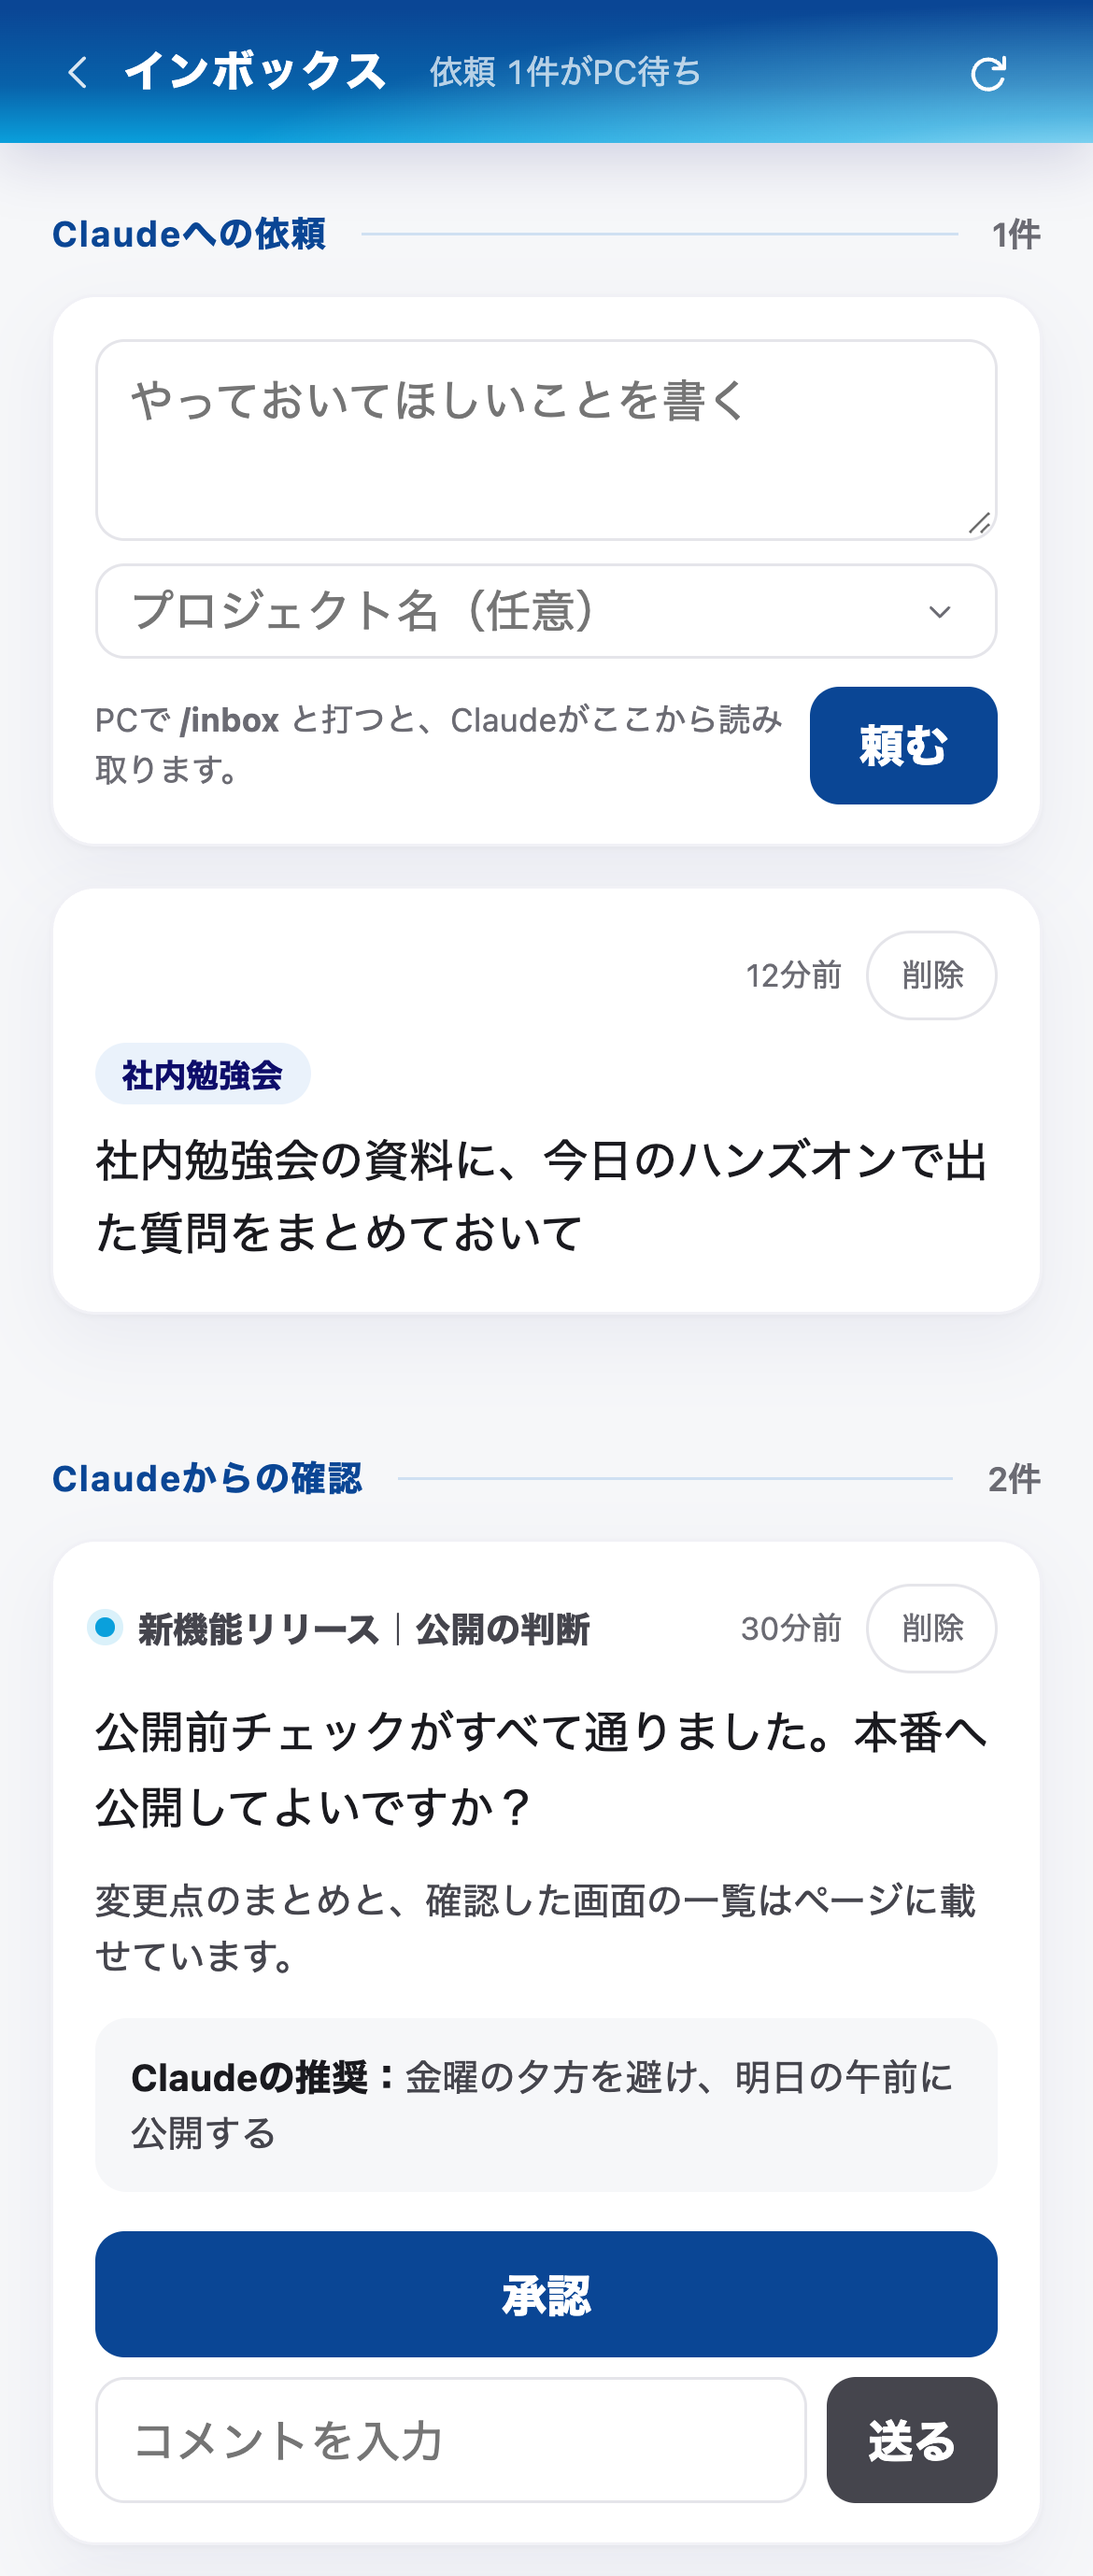
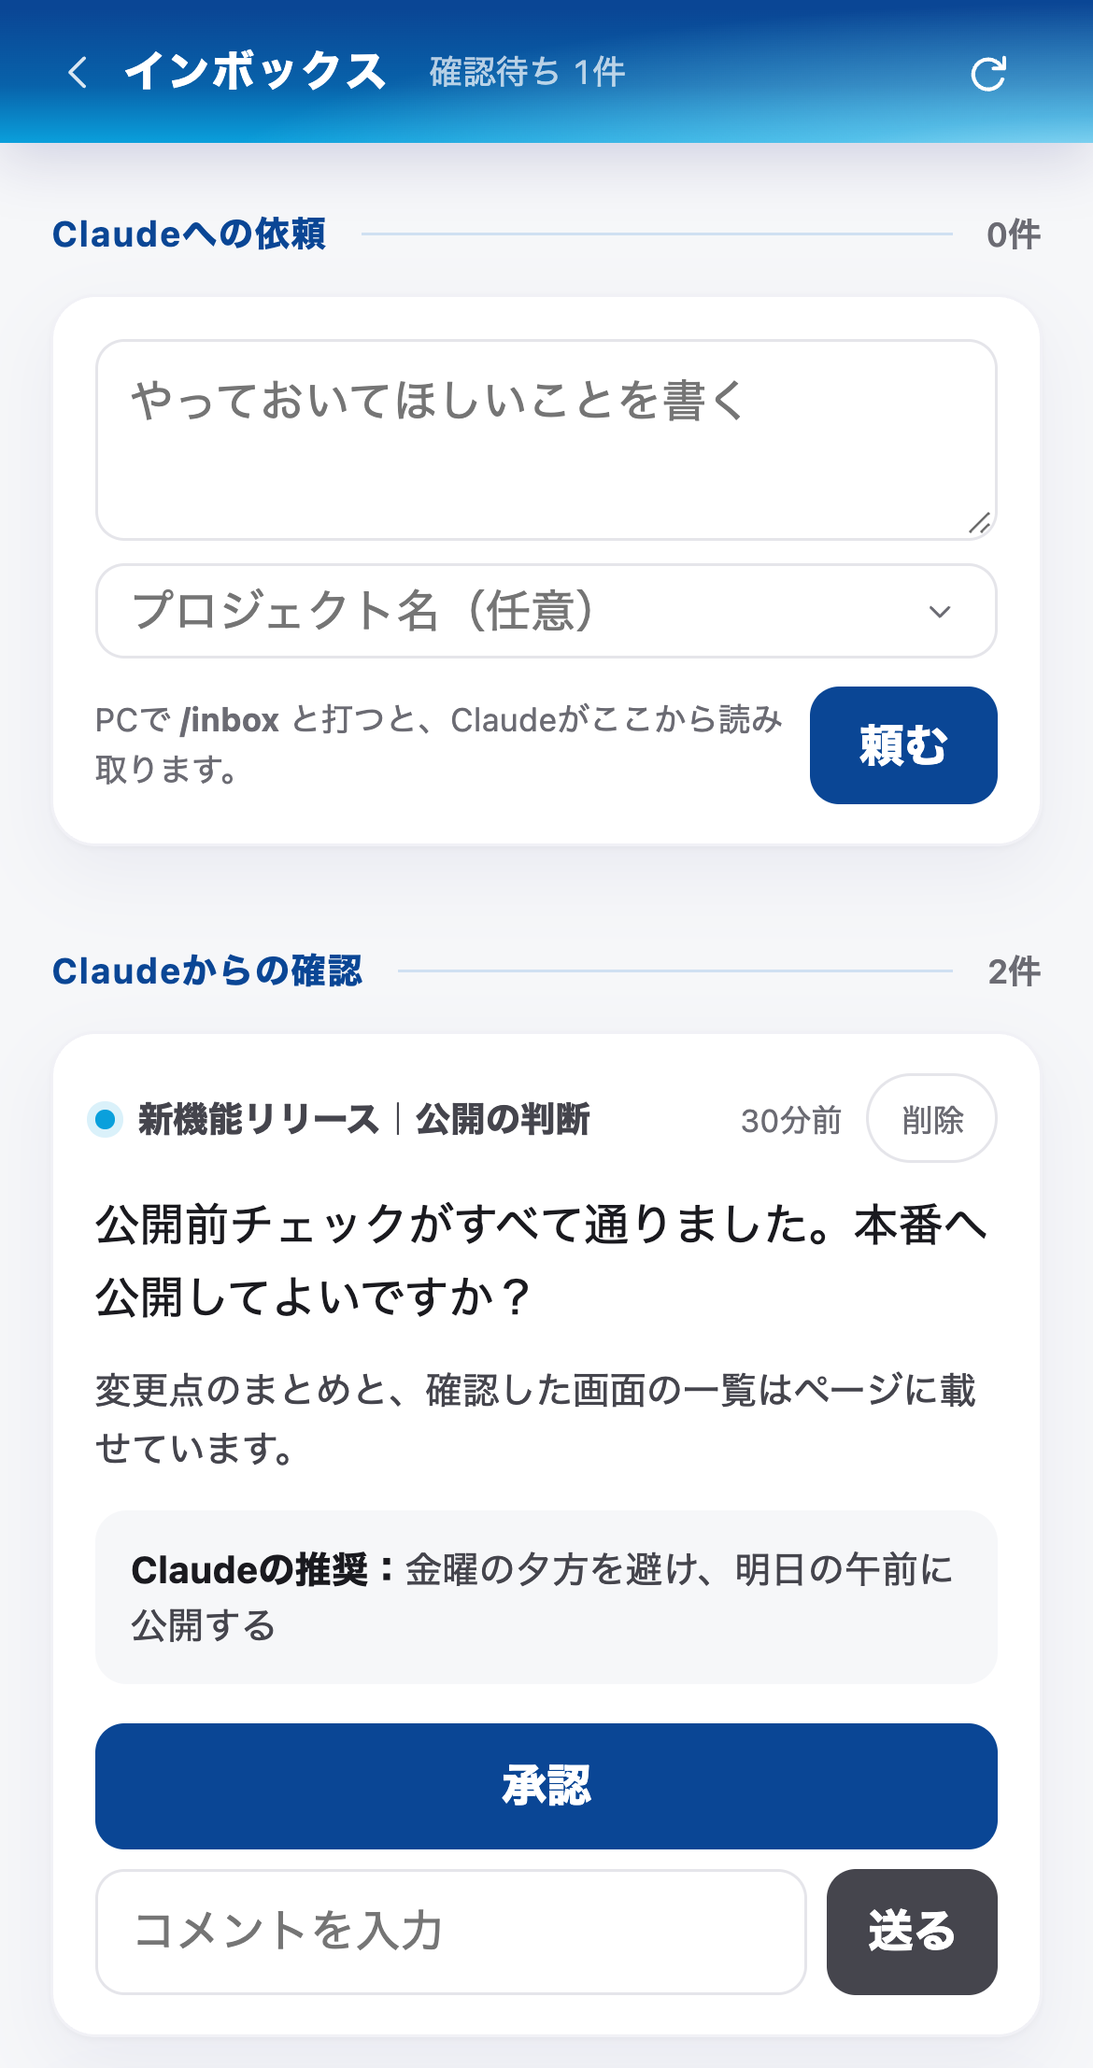
READMEの2行目をPCで開いたページとスマホのインボックスに組み直し、別ドメインの枠のスクロールで例外を出さないようにした

diff --git a/web/app/index.html b/web/app/index.html
@@ -1554,7 +1554,15 @@ body.page-controls-hidden #page-actions {
   function watchFrameScroll() {
     const frameWindow = frame.contentWindow;
     if (!frameWindow) return;
-    let lastY = frameWindow.scrollY;
+    // ページは別のドメイン（contentDomain）から配信するので、枠の中のスクロールは読めないのが普通。
+    // 読めないときはボタンを出したままにする（例外を投げると、ページを開くたびにエラーが残る）
+    let lastY;
+    try {
+      lastY = frameWindow.scrollY;
+    } catch {
+      setPageControlsHidden(false);
+      return;
+    }
     frameWindow.addEventListener('scroll', () => {
       const nextY = frameWindow.scrollY;
       if (nextY <= 24 || nextY < lastY - 6) setPageControlsHidden(false);

diff --git a/test/ui.test.ts b/test/ui.test.ts
@@ -280,3 +280,9 @@ test('cards and boxes in the shipped UI have no accent edges', () => {
   }
   assert.deepEqual(offenders, []);
 });
+
+test('does not throw when the page frame is on another origin', () => {
+  // Pages are served from the content domain, so reading the frame's scroll position is blocked.
+  const dashboard = readFileSync(path.join(root, 'web', 'app', 'index.html'), 'utf8');
+  assert.match(dashboard, /function watchFrameScroll\(\) \{[\s\S]{0,400}try \{\s*lastY = frameWindow\.scrollY;\s*\} catch \{/);
+});
